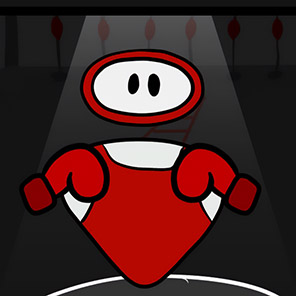
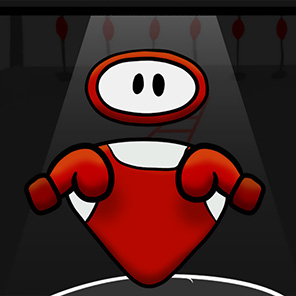
Tablet view polish & minor accessibility
Largely CSS changes to the Tablet sized view. Brought back the social links in the header, made the buttons look better (and the favorite game text), etc.

Also updated the Roboxing preview image to be more readable for all forms of colorblindness.

diff --git a/mystyle.css b/mystyle.css
@@ -364,7 +364,7 @@
 	h2 {
 		color:#EEEEEE;
 		font-family: Quando;
-		font-size: 1.5em;
+		font-size: 1.55em;
 	}
 	h3 {
 		color:#EEEEEE;
@@ -426,20 +426,37 @@
 		width: 4em;
 		padding: .4em;
 	}
+	#img-twitter-header {
+		height: 1.02em;
+		margin: 0em 0.05em;
+	}
 	#img-twitter-footer {
 		width: 1.65em;
 		padding: .1em .1em 0em .1em;
 		margin: 0em .1em;
+	}
+	#img-linkedin-header {
+		height: 1.1em;
+		margin: 0em 0em 0em 0.15em;
 	}
 	#img-linkedin-footer {
 		width: 1.5em;
 		padding: .1em .1em 0em .1em;
 		margin: 0em .1em;
 	}
+	#img-bandcamp-header {
+		width: 2.35em;
+		margin: 0em 0.05em 0em 0.1em;
+		padding: 0em 0em 0em 0em;
+	}
 	#img-bandcamp-footer {
 		width: 3em;
 		margin: 0em 0em 0em 0.1em;
 		padding: 0em 0em 0em 0em;
+	}
+	#img-tumblr-header {
+		height: 1.11em;
+		margin: 0em 0.05em;
 	}
 	#img-tumblr-footer {
 		width: 0.95em;
@@ -469,7 +486,7 @@
 		position: sticky;
 		z-index: 0;
 		color: #000000;
-		height: 28px;
+		height: 35px;
 	}
 	.header-sidekick-buttons{
 		margin-left: 5em;
@@ -484,9 +501,11 @@
 		float: left;
 		transition-duration: 0.2s;
 		font-family: SourceSansPro;
+		width: 86px;
 	}
 	.header-button:hover {
 		background-color: #7F7F7F;
+		cursor: pointer;
 	}
 	.header-button-disabled {
 		border: none;
@@ -496,18 +515,22 @@
 		font-size: 22px;
 		float: left;
 		font-family: SourceSansPro;
+		width: 86px;
 	}
 	.header-sidekick-links {
-		display: none;
+		margin-right: 1em;
+		float: right;
 	}
 	.main_hr {
-		margin: 0px, 50px, 0px, 50px;
+		color:#CFCFCF;
+		background-color: #CFCFCF;
+		margin: 0px 10px;
 	}
 	.minor_hr {
-		margin: 0px, 50px, 0px, 50px;
+		margin: 0px 75px;
 	}
 	.content-quicklinks-group-div {
-		margin: 0em 1em 0em 1em;
+		margin: 0em 1em 1em 1em;
 	}
 	.content-quick-link-div {
 		margin: -0.75em 0em 0em 0em;
@@ -535,6 +558,20 @@
 	}
 	.content-bio-favgames-div {
 		margin: 1em 1em 1em 1em;
+		display: flex;
+		justify-items: center;
+	}
+	.content-bio-favgames-column-1 {
+		margin: 0px 6vw 0px 0px;
+		width: max(550px, 33%)
+	}
+	.content-bio-favgames-column-2 {
+		margin: 0px 8vw 0px 0px;
+		width: max(550px, 50%)
+	}
+	.content-bio-favgames-column-3 {
+		margin: 0px 15px 0px 0px;
+		width: max(580px, 46%)
 	}
 	#container-video-reel {
 		padding: 0px;
@@ -545,7 +582,7 @@
 		margin-top: 0px;
 		width: 95%;
 	}
-	#container-disclaimer-text {
+	#container-reel-text {
 		text-align:center;
 		display: block;
 		color:#EEEEEE;
@@ -615,7 +652,7 @@
 /****************************/
 
 /*Mobile formatting*/
-@media (max-width: 610px) {
+@media (max-width: 609px) {
 	body {
 	  background-color:#000000;
 	  font-family: SourceSansPro;
@@ -755,6 +792,7 @@
 	}
 	.header-button:hover {
 		background-color: #7F7F7F;
+		cursor: pointer;
 	}
 	.header-button-disabled {
 		border: none;

diff --git a/index.html b/index.html
@@ -58,8 +58,8 @@
 		</div>
 		<script src="https://player.vimeo.com/api/player.js"></script>
 	</div>
-<!--Temp disclaimer, delete when "finished"-->
-	<div id="container-disclaimer-text">
+<!--Currently a disclaimer but will lead to an Audio Described version of the sound design reel when the site is "finished"-->
+	<div id="container-reel-text">
 		<p>This site is under construction as I learn HTML.</p>
 	</div>
 	<hr class="main_hr">
